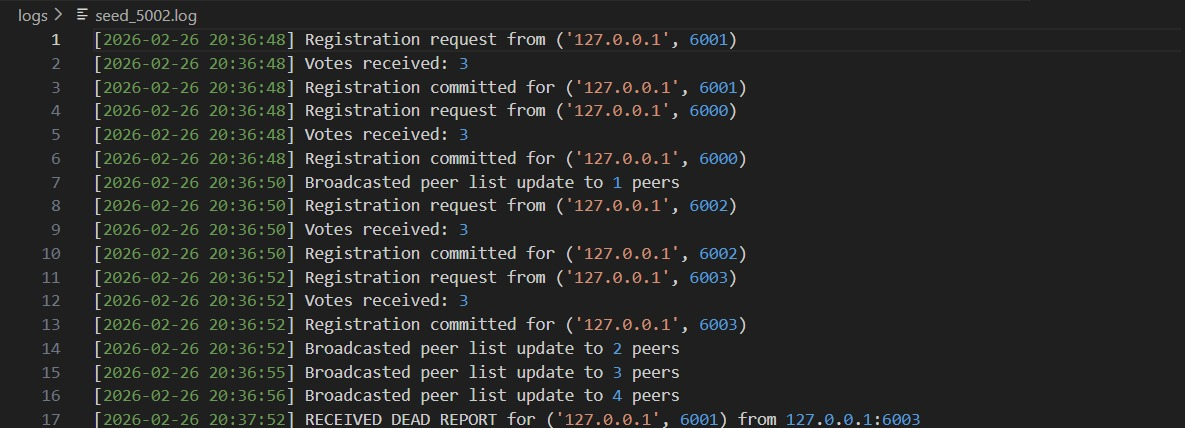
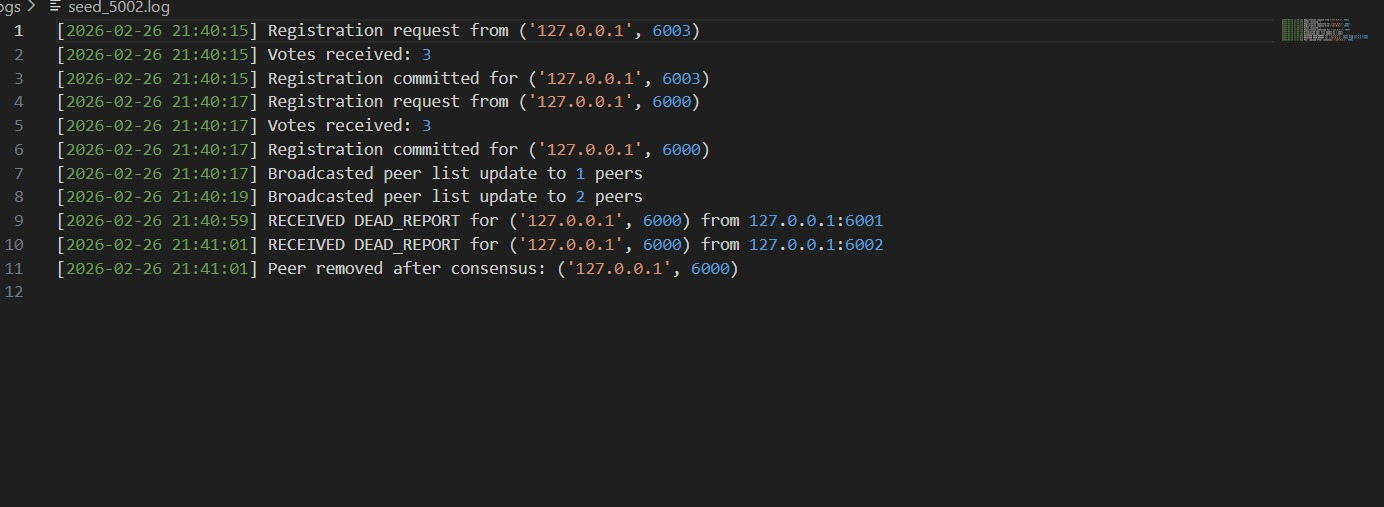
More readme changes.

diff --git a/README.md b/README.md
@@ -132,8 +132,8 @@ Images demonstrating working.
 
 ## Image1 – Seed Registration and Broadcast
 
-Shows registration requests received by seed and majority voting before commit.  
-Peer list updates are broadcast to all active peers after consensus.
+Here, we see registration requests received by seed and majority voting before commit.  
+After receiving majority approvals, the seed commits the registration and broadcasts an updated peer list to all active peers.
 
 ![Image1](Images/Image1.jpeg)
 
@@ -141,18 +141,17 @@ Peer list updates are broadcast to all active peers after consensus.
 
 ## Image2 - Overlay Construction and Gossip Activity
 
-Shows received peer list and preferential neighbor selection.  
-Demonstrates gossip generation, reception, and overhead logging.
+We see a peer receiving the merged peer list from seeds and constructing its neighbor set using preferential attachment  (simulating power law).  
+It then generates gossip messages and logs overhead statistics including sent, received, and ping counts.
 
 ![Image2](Images/Image2.jpeg)
 
 ---
 
-## Image3 – Peer Suspicion and Voting Start
+## Image3 – Peer Suspicion and Voting
 
-Shows ping failures leading to suspicion counter increments.  
-Peer initiates `SUSPECT_REQUEST` broadcast to all peers for voting.
-Dead report is sent to seeds after successful consensus.
+This image shows repeated TCP ping failures increasing the suspicion counter. 
+Upon reaching the threshold, the peer broadcasts `SUSPECT_REQUEST`, collects `SUSPECT_RESPONSE` votes from other peers, achieves majority, and sends a structured `DEAD_REPORT` to all seeds.
 
 ![Image3](Images/Image3.jpeg)
 
@@ -160,8 +159,8 @@ Dead report is sent to seeds after successful consensus.
 
 ## Image4 – Seed-Level Dead Report Handling
 
-Shows seed receiving `DEAD_REPORT` and tracking consensus votes.  
-Dead peer removal occurs only after majority agreement among seeds.
+This image shows the seed receiving `DEAD_REPORT` and tracking consensus votes.  
+After majority agreement among seeds, the dead peer is removed from the global `peer_list`, and an updated peer list is broadcast to the remaining peers to rebuild overlays consistently.
 
 ![Image4](Images/Image4.jpeg)
 
@@ -184,12 +183,13 @@ Start peers:
 python peer.py 6000
 python peer.py 6001
 python peer.py 6002
+python peer.py 6003
 ```
 
 Or use launcher:
 
 ```
-python launcher.py 3 5
+python launcher.py 3 4
 ```
 
 
@@ -221,8 +221,3 @@ Launcher:
 ---
 
 
-
-
----
-
-End of README.
